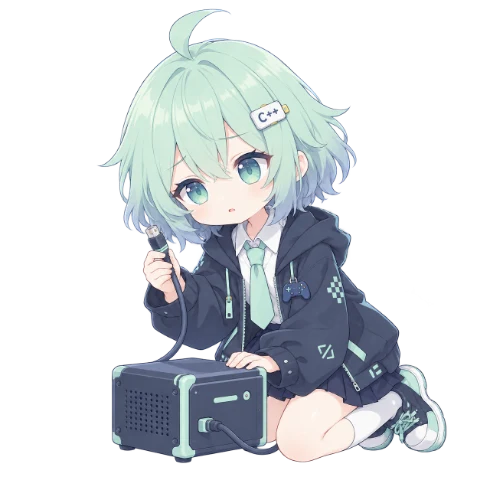
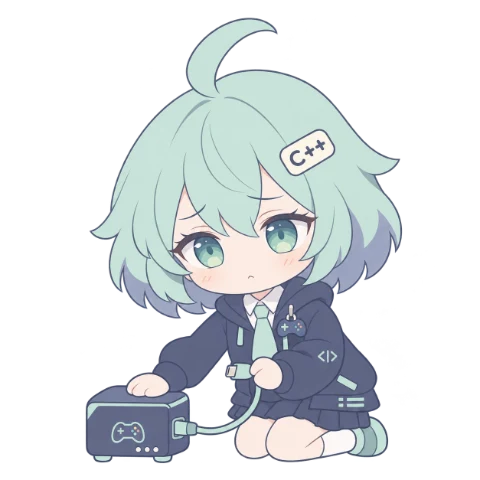
feat (ui): adopt soft flat scene illustrations

diff --git a/src/illustrations.ts b/src/illustrations.ts
@@ -1,29 +1,29 @@
 import art0 from './assets/illustrations/mascot-auth-welcome.webp'
-import art1 from './assets/illustrations/state-not-found.webp'
-import art2 from './assets/illustrations/state-no-applications.webp'
-import art3 from './assets/illustrations/state-no-results.webp'
-import art4 from './assets/illustrations/state-service-unavailable.webp'
-import art5 from './assets/illustrations/mascot-developer-welcome.webp'
-import art6 from './assets/illustrations/state-access-restricted.webp'
-import art7 from './assets/illustrations/state-session-expired.webp'
-import art8 from './assets/illustrations/state-no-records.webp'
-import art9 from './assets/illustrations/state-complete.webp'
-import art10 from './assets/illustrations/mascot-guide-helper.webp'
-import art11 from './assets/illustrations/mascot-face-neutral.webp'
+import art1 from './assets/illustrations/state-no-applications.webp'
+import art2 from './assets/illustrations/state-no-results.webp'
+import art3 from './assets/illustrations/state-service-unavailable.webp'
+import art4 from './assets/illustrations/mascot-developer-welcome.webp'
+import art5 from './assets/illustrations/state-access-restricted.webp'
+import art6 from './assets/illustrations/state-session-expired.webp'
+import art7 from './assets/illustrations/state-no-records.webp'
+import art8 from './assets/illustrations/state-complete.webp'
+import art9 from './assets/illustrations/mascot-guide-helper.webp'
+import art10 from './assets/illustrations/mascot-face-neutral.webp'
+import art11 from './assets/illustrations/state-not-found.webp'
 
 export const illustrations = {
   'auth-welcome': { src: art0, width: 880, height: 1100 },
-  'not-found': { src: art1, width: 480, height: 480 },
-  'no-applications': { src: art2, width: 480, height: 480 },
-  'no-results': { src: art3, width: 480, height: 480 },
-  'service-unavailable': { src: art4, width: 480, height: 480 },
-  'developer-welcome': { src: art5, width: 900, height: 675 },
-  'access-restricted': { src: art6, width: 480, height: 480 },
-  'session-expired': { src: art7, width: 480, height: 480 },
-  'no-records': { src: art8, width: 480, height: 480 },
-  'complete': { src: art9, width: 480, height: 480 },
-  'guide-helper': { src: art10, width: 480, height: 480 },
-  'face-neutral': { src: art11, width: 192, height: 192 },
+  'no-applications': { src: art1, width: 480, height: 480 },
+  'no-results': { src: art2, width: 480, height: 480 },
+  'service-unavailable': { src: art3, width: 480, height: 480 },
+  'developer-welcome': { src: art4, width: 900, height: 675 },
+  'access-restricted': { src: art5, width: 480, height: 480 },
+  'session-expired': { src: art6, width: 480, height: 480 },
+  'no-records': { src: art7, width: 480, height: 480 },
+  'complete': { src: art8, width: 480, height: 480 },
+  'guide-helper': { src: art9, width: 480, height: 480 },
+  'face-neutral': { src: art10, width: 192, height: 192 },
+  'not-found': { src: art11, width: 480, height: 480 },
 } as const
 
 export type MoeIllustrationName = keyof typeof illustrations
